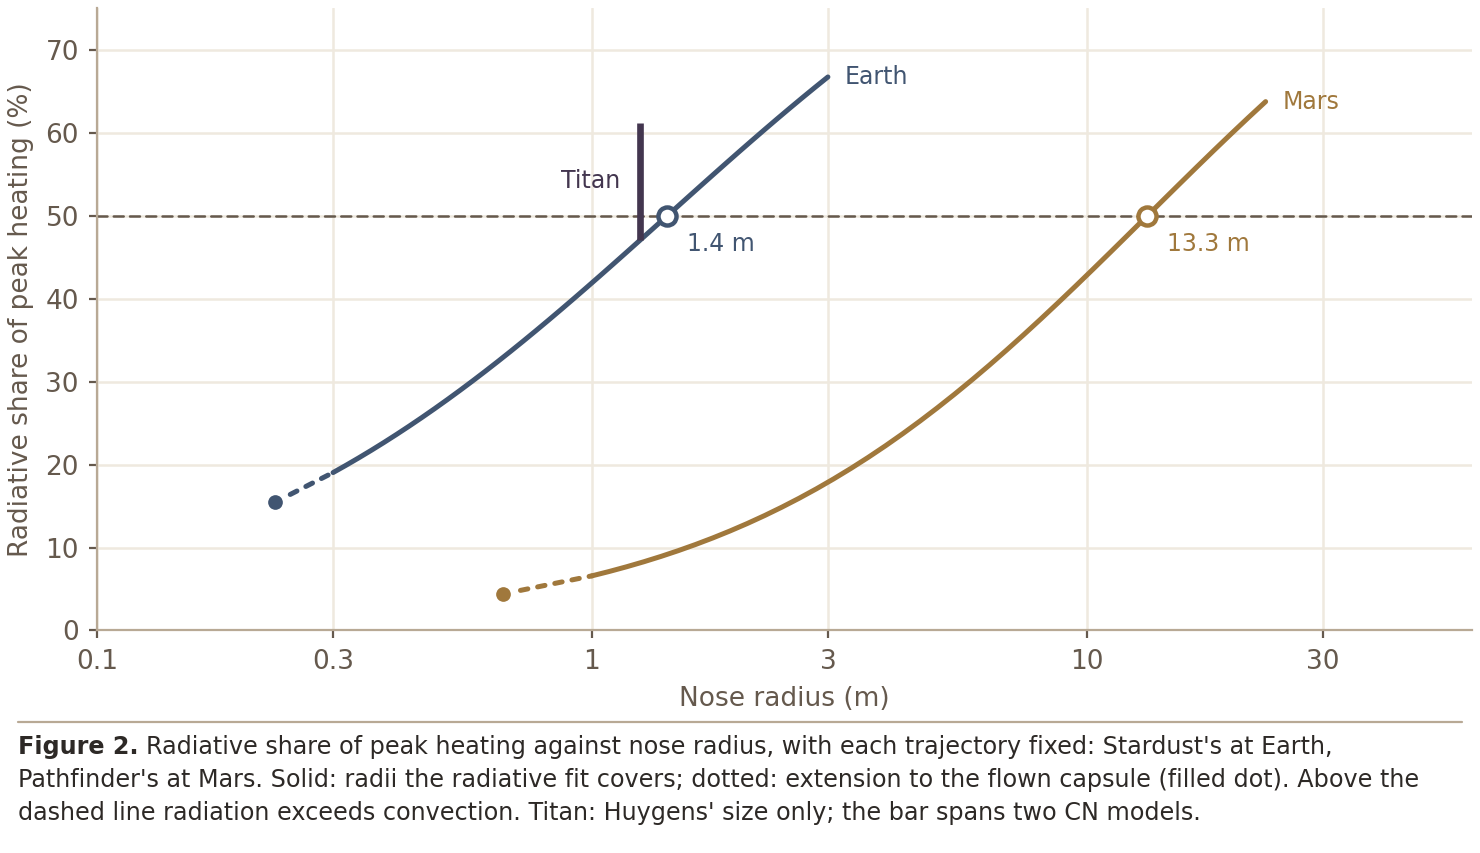
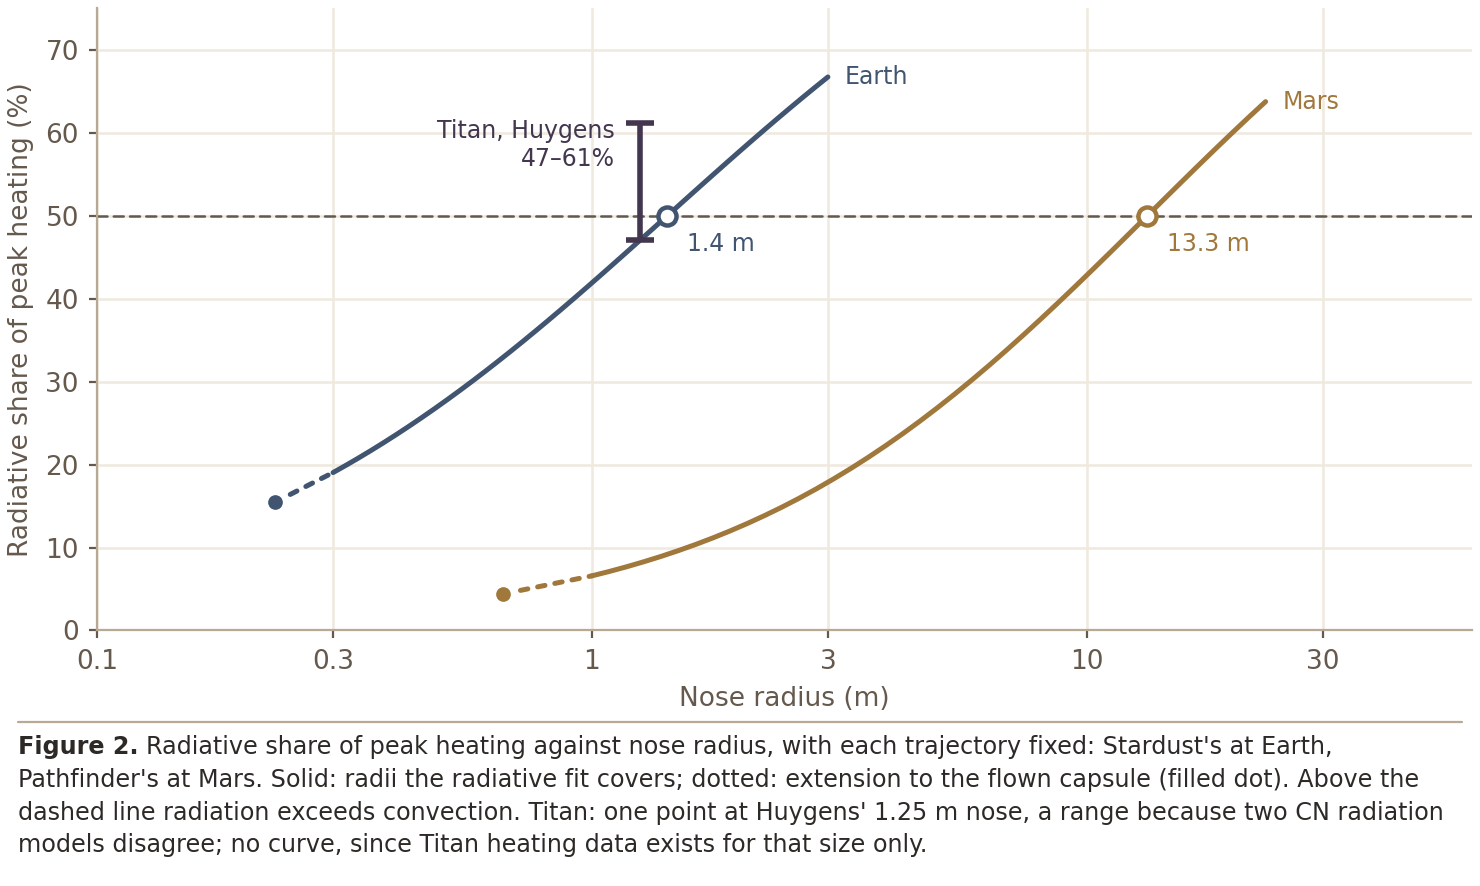
Clarify finding headings and the Titan range in Figure 2
- README finding headings state the finding, without trailing periods.
- Figure 2 draws Titan as a capped range labeled with its values; the
  caption says why it is one point and why it is a range.

Changed region(s): [[0.0, 0.0914, 0.9946, 0.9754], [0.0311, 0.0305, 0.9946, 0.0914]]

diff --git a/examples/showcase.py b/examples/showcase.py
@@ -324,8 +324,10 @@ def size_figure(cases, titan, filename, number, caption):
                    ha="left", va="top", color=color, fontsize=8.5)
         end_label(a, radii[-1], share[-1], world, color, dx=6)
     radius, low, high = titan
-    a.plot([radius, radius], [low, high], color=IRIS, lw=2.4, solid_capstyle="butt")
-    end_label(a, radius, (low + high) / 2, "Titan", IRIS, dx=-7, ha="right")
+    a.errorbar(radius, (low + high) / 2, yerr=(high - low) / 2, fmt="none", ecolor=IRIS,
+               elinewidth=2, capsize=5, capthick=2)
+    end_label(a, radius, high, "Titan, Huygens\n" + f"{low:.0f}–{high:.0f}%", IRIS,
+              dx=-9, dy=-8, ha="right")
     a.set_xscale("log")
     a.set_xticks([0.1, 0.3, 1, 3, 10, 30], ["0.1", "0.3", "1", "3", "10", "30"])
     a.minorticks_off()
@@ -425,7 +427,8 @@ def main(corridors=True):
         "Radiative share of peak heating against nose radius, with each trajectory fixed: "
         "Stardust's at Earth, Pathfinder's at Mars. Solid: radii the radiative fit covers; "
         "dotted: extension to the flown capsule (filled dot). Above the dashed line radiation "
-        "exceeds convection. Titan: Huygens' size only; the bar spans two CN models.")
+        "exceeds convection. Titan: one point at Huygens' 1.25 m nose, a range because two CN "
+        "radiation models disagree; no curve, since Titan heating data exists for that size only.")
 
     s = SIGMA
     validation_figure(

diff --git a/README.md b/README.md
@@ -14,7 +14,7 @@ of an entry capsule?
 
 ## Answer
 
-**1. At equal size, Titan radiates like Earth at half the speed.**
+**1. At equal size, Titan radiates like Earth at half the speed**
 
 ![Convective vs radiative peak heating at three worlds](docs/figures/three_worlds.png)
 
@@ -37,7 +37,7 @@ Titan matches or exceeds Earth's radiative share at less than half the speed. It
 nitrogen–methane atmosphere forms CN behind the shock, and CN radiates
 strongly. Mars, at a similar speed, radiates little.
 
-**2. Size matters.**
+**2. Larger noses shift the heating toward radiation**
 
 ![Radiative share vs nose radius](docs/figures/size_effect.png)
 
@@ -45,8 +45,10 @@ Convective heating falls as 1/√(nose radius); radiative heating rises with it.
 On the same trajectory, radiation becomes the larger peak at a nose radius of
 about 1.4 m at Earth (Stardust's entry) and 13 m at Mars (Pathfinder's).
 
-**3. At Earth, speed matters too.** For the Stardust capsule at −8.2°, the
-share is 15% at 12.9 km/s, 24% at 14 km/s and 37% at 16 km/s.
+**3. At Earth, faster entries radiate more**
+
+For the Stardust capsule at −8.2°, the radiative share is 15% at 12.9 km/s,
+24% at 14 km/s and 37% at 16 km/s.
 
 *Radiative share* = radiative peak ÷ (radiative peak + convective peak). The
 two peaks occur a few seconds apart.
